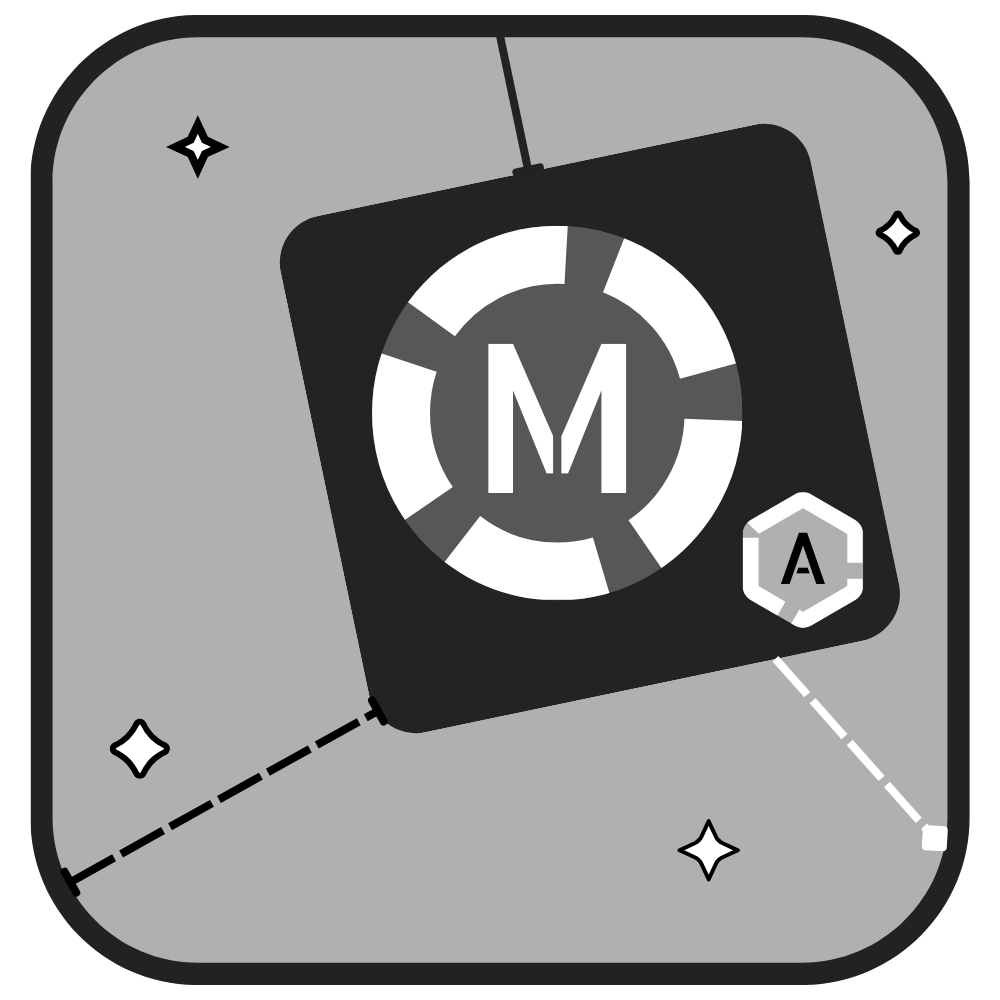
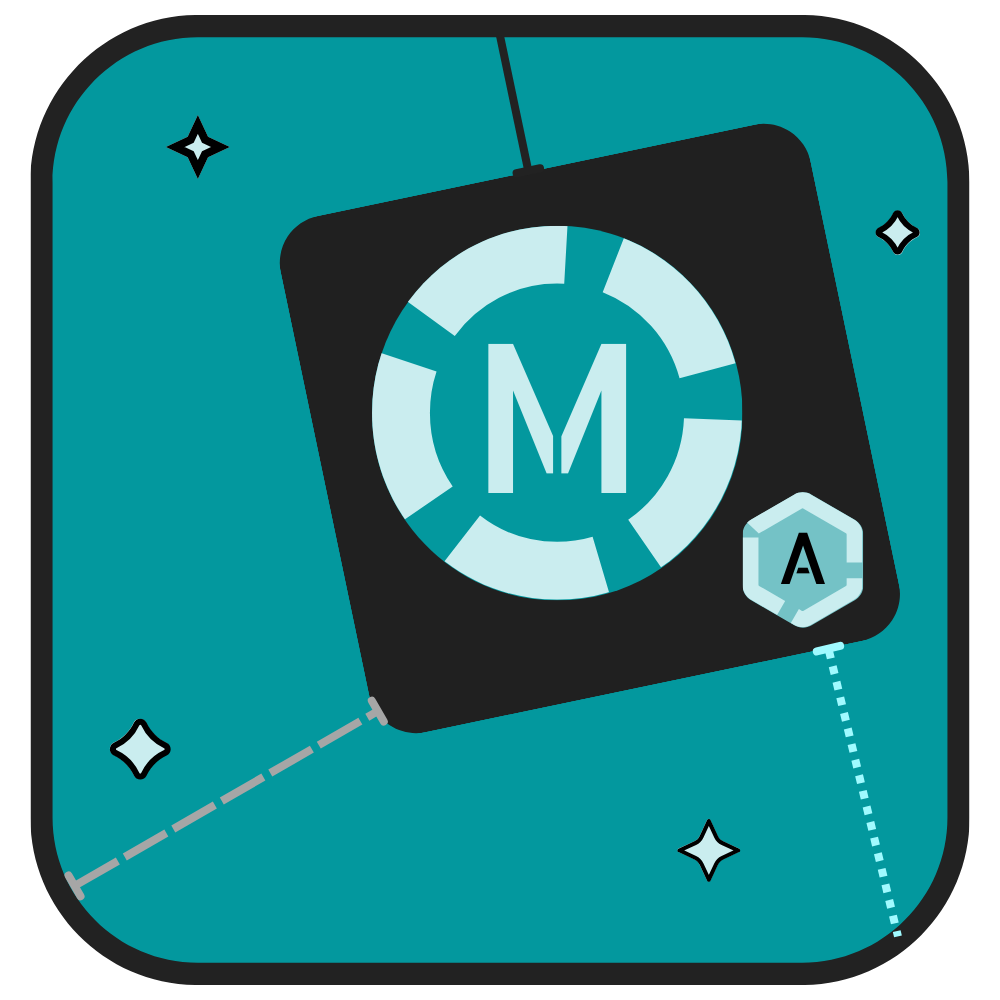
added more animations and accent color usages

diff --git a/style.css b/style.css
@@ -71,7 +71,7 @@ body {
 
 #navbar-background {
   background-color: #232323;
-  border-bottom:#ffffff solid 2px;
+  border-bottom:rgba(96, 224, 255, 0.639) solid 2px;
 }
 
 #logo img {
@@ -334,7 +334,7 @@ font-family: 'Montserrat', sans-serif;
     width: 13em;
     height: 4.2em;
     background-color: #212121;
-    border: 0.08em solid #fff;
+    border: 0.08em solid rgba(96, 224, 255, 0.639);
     border-radius: 0.3em;
     font-size: 12px;
     cursor: pointer;
@@ -361,17 +361,38 @@ font-family: 'Montserrat', sans-serif;
     transition: all 0.5s;
     transform: translate(0, 0.4em);
     box-shadow: 0 0 0 0 #fff;
+    color: #00171F;
+    border: 0.16em solid #212121;
   }
   
   button span:not(hover) {
     transition: all 1s;
   }
   
+  button span::after {
+    content: "";
+    background-color: rgba(96, 224, 255, 0.639);
+    width: 100%;
+    height: 100%;
+    position: absolute;
+    opacity: 0;
+    z-index: -1;
+    border-radius: 5px;
+  }
+  
+  button span:hover::after {
+    animation:scale-in-center .5s cubic-bezier(.25,.46,.45,.94) both;
+  }
+  
+  button span:not(hover)::after {
+    animation:scale-out-center .5s cubic-bezier(.55,.085,.68,.53) both;
+  }
+  
   hr {
     border-width: 1px;
-    color: #ffffff;
-    background-color: #ffffff;
-    border-color: #ffffff;
+    color: rgba(96, 224, 255, 0.639);
+    background-color: rgba(96, 224, 255, 0.639);
+    border-color: rgba(96, 224, 255, 0.639);
     width: 114%;
     border-style: solid;
     opacity: 1;
@@ -381,9 +402,9 @@ font-family: 'Montserrat', sans-serif;
 @media (min-width: 990px) {
 hr {
   border-width: 1px;
-  color: #ffffff;
-  background-color: #ffffff;
-  border-color: #ffffff;
+  color: rgba(96, 224, 255, 0.639);
+  background-color: rgba(96, 224, 255, 0.639);
+  border-color: rgba(96, 224, 255, 0.639);
   width: 120%;
   border-style: solid;
   opacity: 1;
@@ -403,7 +424,7 @@ button {
   width: 25.4em;
   height: 8.4em;
   background-color: #212121;
-  border: 0.08em solid #fff;
+  border: 0.08em solid rgba(96, 224, 255, 0.639);
   border-radius: 0.3em;
   font-size: px;
   cursor: pointer;
@@ -430,6 +451,7 @@ button span:hover {
   transform: translate(0, 0.8em);
   box-shadow: 0 0 0 0 #fff;
   color: #00171F;
+  border: 0.16em solid #212121;
 }
 
 button span:not(hover) {
@@ -438,7 +460,7 @@ button span:not(hover) {
 
 button span::after {
   content: "";
-  background-color: #8BE3FF;
+  background-color: rgba(96, 224, 255, 0.639);
   width: 100%;
   height: 100%;
   position: absolute;
@@ -458,14 +480,24 @@ button span:not(hover)::after {
 }
 
 /* ----------------------------------------------
- * Generated by Animista on 2024-2-27 10:8:32
+ * Generated by Animista on 2024-2-29 7:51:58
  * Licensed under FreeBSD License.
  * See http://animista.net/license for more info. 
  * w: http://animista.net, t: @cssanimista
  * ---------------------------------------------- */
 
- @-webkit-keyframes text-shadow-pop-top{0%{text-shadow:0 0 #555,0 0 #555,0 0 #555,0 0 #555,0 0 #555,0 0 #555,0 0 #555,0 0 #555;-webkit-transform:translateY(0);transform:translateY(0)}100%{text-shadow:0 -1px #555,0 -2px #555,0 -3px #555,0 -4px #555,0 -5px #555,0 -6px #555,0 -7px #555,0 -8px #555;-webkit-transform:translateY(8px);transform:translateY(8px)}}@keyframes text-shadow-pop-top{0%{text-shadow:0 0 #555,0 0 #555,0 0 #555,0 0 #555,0 0 #555,0 0 #555,0 0 #555,0 0 #555;-webkit-transform:translateY(0);transform:translateY(0)}100%{text-shadow:0 -1px #555,0 -2px #555,0 -3px #555,0 -4px #555,0 -5px #555,0 -6px #555,0 -7px #555,0 -8px #555;-webkit-transform:translateY(8px);transform:translateY(8px)}}
- .text-shadow-pop-top:hover{-webkit-animation:text-shadow-pop-top .6s both;animation:text-shadow-pop-top .6s both}
+ @-webkit-keyframes text-shadow-drop-center-reverse{0%{text-shadow:0 0 0 transparent}100%{text-shadow:0 0 18px rgba(96, 224, 255, 0.639)}}@keyframes text-shadow-drop-center-reverse{0%{text-shadow:0 0 0 transparent}100%{text-shadow:0 0 18px rgba(96, 224, 255, 0.639)}}
+ .text-shadow-drop-center-reverse:not(hover){-webkit-animation:text-shadow-drop-center-reverse .6s reverse both;animation:text-shadow-drop-center-reverse .6s reverse both}
+
+/* ----------------------------------------------
+ * Generated by Animista on 2024-2-29 7:47:56
+ * Licensed under FreeBSD License.
+ * See http://animista.net/license for more info. 
+ * w: http://animista.net, t: @cssanimista
+ * ---------------------------------------------- */
+
+ @-webkit-keyframes text-shadow-drop-center{0%{text-shadow:0 0 0 transparent}100%{text-shadow:0 0 18px rgba(96, 224, 255, 0.639)}}@keyframes text-shadow-drop-center{0%{text-shadow:0 0 0 transparent}100%{text-shadow:0 0 18px rgba(96, 224, 255, 0.639)}}
+ .text-shadow-drop-center:hover{-webkit-animation:text-shadow-drop-center .6s both;animation:text-shadow-drop-center .6s both}
 
  /* ----------------------------------------------
  * Generated by Animista on 2024-2-27 10:21:14

diff --git a/index.html b/index.html
@@ -23,7 +23,7 @@
         <div id="navbar-container">
           <ul class="navbar-nav">
             <li class="skeuomorphic-buttons-navbar">
-              <a class="text-shadow-pop-top skeuomorphic-buttons heading-size-change display-font">
+              <a class="text-shadow-drop-center text-shadow-drop-center-reverse skeuomorphic-buttons heading-size-change display-font">
                 Historical Events on March 2nd, 2007; My Birthday
               </a>
             </li>
